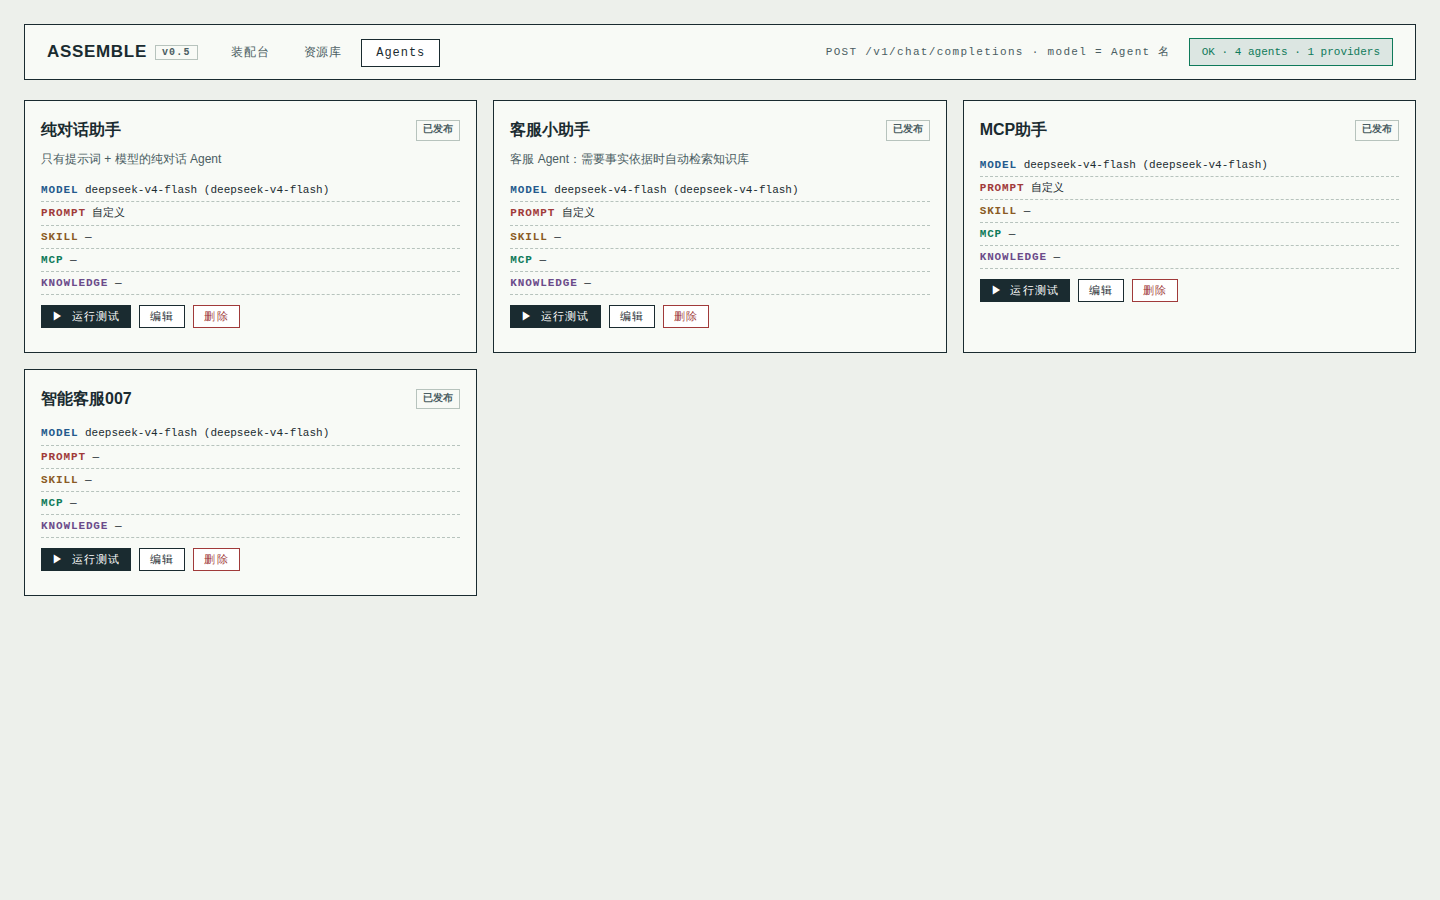
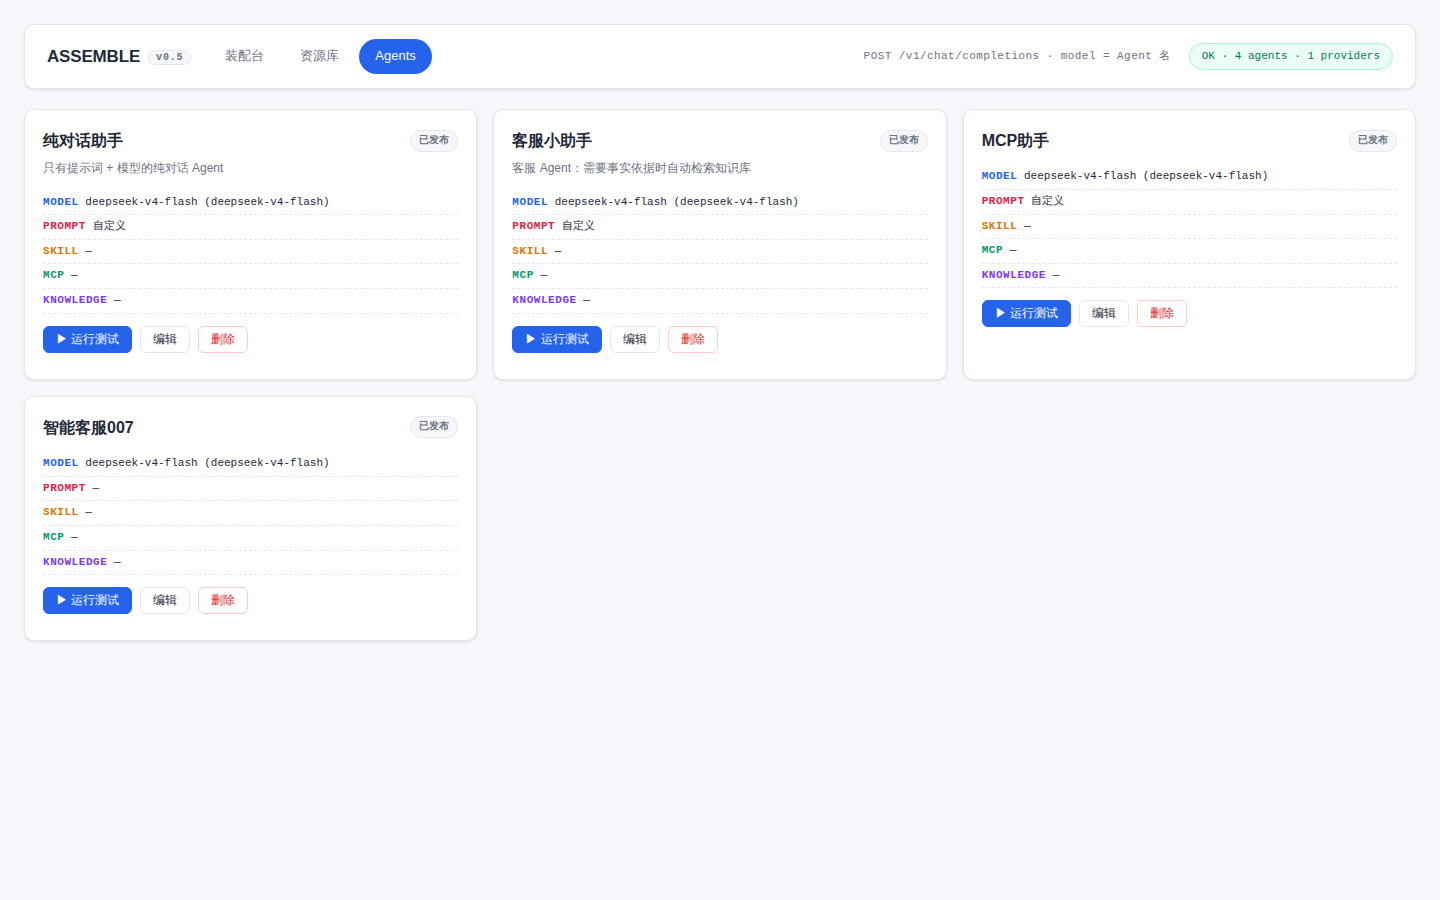
style: 界面换肤 —— 现代 SaaS 浅色（保留全部结构与逻辑）
- 重写 <style>：白卡片圆角(10px)/柔和阴影/浅灰背景(#F5F7FA)，
  蓝色主色(#2563EB)+胶囊导航/按钮/标签，表格圆角行hover，模态框圆角大阴影
- 五类组件色更新为现代色系：模型蓝/提示词玫红/MCP绿/技能橙/知识库紫
- JS 仅同步 W 对象色值（引用点自动跟随）；HTML 结构与全部类名未动
- 验证：headless Chrome 4/4（新风格生效 + 装配台/资源库/Agents 功能回归）；
  README 截图已重截

diff --git a/web/index.html b/web/index.html
@@ -6,127 +6,136 @@
 <title>assemble-agent · 装配台</title>
 <style>
   :root{
-    --bg:#EDF0EB; --panel:#F8FAF6; --ink:#1A2B30; --ink-soft:#4A5D62;
-    --line:#B7C3BD; --accent:#D4581D;
-    --w-model:#245A8D; --w-prompt:#A03A3A; --w-mcp:#0F7A5A; --w-skill:#8A5A24; --w-kb:#6B4B8A;
-    --mono:"JetBrains Mono","SF Mono","Cascadia Code",ui-monospace,Menlo,Consolas,monospace;
-    --sans:"PingFang SC","Noto Sans CJK SC","Source Han Sans SC","Microsoft YaHei",sans-serif;
+    --bg:#F5F7FA; --panel:#FFFFFF; --ink:#1F2937; --ink-soft:#6B7280;
+    --line:#E5E7EB; --accent:#2563EB; --accent-soft:#EFF6FF; --danger:#DC2626;
+    --w-model:#2563EB; --w-prompt:#E11D48; --w-mcp:#059669; --w-skill:#D97706; --w-kb:#7C3AED;
+    --radius:10px; --radius-sm:6px;
+    --shadow:0 1px 3px rgba(16,24,40,.08),0 1px 2px rgba(16,24,40,.04);
+    --shadow-lg:0 10px 30px rgba(16,24,40,.14);
+    --mono:"SF Mono","JetBrains Mono","Cascadia Code",ui-monospace,Menlo,Consolas,monospace;
+    --sans:Inter,-apple-system,"Segoe UI","PingFang SC","Noto Sans CJK SC","Microsoft YaHei",sans-serif;
   }
   *{margin:0;padding:0;box-sizing:border-box}
   body{
-    background:var(--bg);
-    background-image:linear-gradient(var(--line) .5px,transparent .5px),linear-gradient(90deg,var(--line) .5px,transparent .5px);
-    background-size:32px 32px;background-attachment:fixed;
-    color:var(--ink);font-family:var(--sans);font-size:14px;line-height:1.65;
+    background:var(--bg);color:var(--ink);font-family:var(--sans);font-size:14px;line-height:1.6;
   }
   .wrap{max-width:1460px;margin:0 auto;padding:24px 24px 90px}
   .hidden{display:none!important}
 
   /* ── 顶栏 ── */
-  .topbar{border:1.5px solid var(--ink);background:var(--panel);display:flex;align-items:center;gap:18px;padding:13px 22px;margin-bottom:20px;flex-wrap:wrap}
-  .topbar .logo{font-weight:800;font-size:17px;letter-spacing:.04em}
-  .topbar .logo .v{font-family:var(--mono);font-size:10px;color:var(--ink-soft);border:1px solid var(--line);padding:1px 6px;margin-left:8px;letter-spacing:.12em;vertical-align:2px}
-  .topnav a{font-family:var(--mono);font-size:12px;color:var(--ink-soft);text-decoration:none;padding:6px 14px;border:1.5px solid transparent;cursor:pointer;letter-spacing:.08em}
-  .topnav a:hover{border-color:var(--line)}
-  .topnav a.active{border:1.5px solid var(--ink);color:var(--ink);background:#fff}
-  .topbar .crumb{margin-left:auto;font-family:var(--mono);font-size:11px;color:var(--ink-soft);letter-spacing:.12em}
-  .status-pill{font-family:var(--mono);font-size:11px;padding:4px 12px;border:1.5px solid var(--ink);background:#E2E7E0;color:var(--ink-soft)}
-  .status-pill.ok{background:#DCE6E2;border-color:var(--w-mcp);color:var(--w-mcp)}
-  .status-pill.err{background:#F3DDD5;border-color:var(--w-prompt);color:var(--w-prompt)}
+  .topbar{background:var(--panel);border:1px solid var(--line);border-radius:var(--radius);box-shadow:var(--shadow);display:flex;align-items:center;gap:18px;padding:14px 22px;margin-bottom:20px;flex-wrap:wrap}
+  .topbar .logo{font-weight:800;font-size:17px;letter-spacing:-.01em}
+  .topbar .logo .v{font-family:var(--mono);font-size:10px;color:var(--ink-soft);background:var(--bg);border:1px solid var(--line);padding:1px 7px;margin-left:8px;border-radius:999px;letter-spacing:.08em;vertical-align:2px}
+  .topnav{display:flex;gap:4px}
+  .topnav a{font-size:13px;font-weight:500;color:var(--ink-soft);text-decoration:none;padding:7px 16px;border-radius:999px;cursor:pointer;transition:all .15s}
+  .topnav a:hover{background:var(--bg);color:var(--ink)}
+  .topnav a.active{background:var(--accent);color:#fff}
+  .topbar .crumb{margin-left:auto;font-family:var(--mono);font-size:11px;color:var(--ink-soft);letter-spacing:.04em}
+  .status-pill{font-family:var(--mono);font-size:11px;padding:4px 12px;border-radius:999px;background:var(--bg);color:var(--ink-soft);border:1px solid var(--line)}
+  .status-pill.ok{background:#ECFDF5;border-color:#A7F3D0;color:#047857}
+  .status-pill.err{background:#FEF2F2;border-color:#FECACA;color:#B91C1C}
 
-  h3{font-size:13px;letter-spacing:.14em;color:var(--ink-soft);margin-bottom:12px;font-family:var(--mono)}
-  h4{font-size:12px;margin-bottom:8px;letter-spacing:.06em}
-  .panel{border:1.5px solid var(--ink);background:var(--panel);padding:16px;margin-bottom:18px}
+  h3{font-size:13px;font-weight:600;letter-spacing:.02em;color:var(--ink-soft);margin-bottom:12px}
+  h4{font-size:12px;font-weight:600;margin-bottom:8px}
+  .panel{border:1px solid var(--line);background:var(--panel);padding:16px;margin-bottom:18px;border-radius:var(--radius)}
 
   /* ── 装配台三栏 ── */
   .assemble-grid{display:grid;grid-template-columns:320px 1fr 380px;gap:18px;align-items:start}
   @media(max-width:1200px){.assemble-grid{grid-template-columns:1fr}}
-  .picker{border:1px solid var(--line);padding:10px 12px;margin-bottom:10px;background:#fff}
-  .picker .title{font-family:var(--mono);font-size:11px;letter-spacing:.1em;margin-bottom:6px;display:flex;align-items:center;gap:6px}
-  .dot{display:inline-block;width:9px;height:9px;border-radius:2px}
-  .pick-item{display:flex;align-items:center;gap:8px;padding:5px 4px;border-bottom:1px dashed var(--line);cursor:pointer;font-size:13px}
+  .picker{border:1px solid var(--line);border-radius:var(--radius);padding:12px 14px;margin-bottom:10px;background:var(--panel)}
+  .picker .title{font-family:var(--mono);font-size:11px;letter-spacing:.06em;margin-bottom:8px;display:flex;align-items:center;gap:6px;color:var(--ink-soft)}
+  .dot{display:inline-block;width:10px;height:10px;border-radius:3px}
+  .pick-item{display:flex;align-items:center;gap:8px;padding:7px 8px;border-radius:var(--radius-sm);cursor:pointer;font-size:13px;transition:background .12s}
   .pick-item:hover{background:var(--bg)}
-  .pick-item input{accent-color:var(--ink)}
-  .pick-item .meta{margin-left:auto;font-family:var(--mono);font-size:10px;color:var(--ink-soft);max-width:130px;overflow:hidden;text-overflow:ellipsis;white-space:nowrap}
-  .pick-empty{font-size:12px;color:var(--ink-soft);padding:6px 4px;font-family:var(--mono)}
+  .pick-item input{accent-color:var(--accent)}
+  .pick-item .meta{margin-left:auto;font-family:var(--mono);font-size:10px;color:var(--ink-soft);max-width:140px;overflow:hidden;text-overflow:ellipsis;white-space:nowrap}
+  .pick-empty{font-size:12px;color:var(--ink-soft);padding:6px 4px}
   .pick-empty a{color:var(--accent);cursor:pointer;text-decoration:underline}
 
   .bus .field{margin-bottom:12px}
-  .bus label{display:block;font-family:var(--mono);font-size:11px;letter-spacing:.1em;color:var(--ink-soft);margin-bottom:5px}
+  .bus label{display:block;font-family:var(--mono);font-size:11px;letter-spacing:.05em;color:var(--ink-soft);margin-bottom:5px}
   .bus input[type=text],.bus textarea,.bus input[type=number],.bus select{
-    width:100%;border:1px solid var(--line);background:#fff;padding:8px 10px;font-size:13px;font-family:var(--sans);color:var(--ink)
+    width:100%;border:1px solid var(--line);border-radius:var(--radius-sm);background:#fff;padding:9px 12px;font-size:13px;font-family:var(--sans);color:var(--ink);transition:border-color .15s,box-shadow .15s
   }
   .bus textarea{min-height:200px;resize:vertical;font-family:var(--mono);font-size:12px;line-height:1.6}
-  .bus input:focus,.bus textarea:focus{outline:1.5px solid var(--accent)}
-  .params-grid{display:grid;grid-template-columns:1fr 1fr 1fr;gap:10px}
-  .slot{display:flex;align-items:center;gap:10px;border:1.5px dashed var(--line);padding:8px 10px;margin-bottom:8px;background:#fff}
-  .slot .tag{font-family:var(--mono);font-size:10px;letter-spacing:.12em;padding:2px 8px;border:1px solid var(--ink);flex-shrink:0}
+  .bus input:focus,.bus textarea:focus{outline:none;border-color:var(--accent);box-shadow:0 0 0 3px var(--accent-soft)}
+  .params-grid{display:grid;grid-template-columns:1fr 1fr 1fr 1fr;gap:10px}
+  .slot{display:flex;align-items:center;gap:10px;border:1px dashed var(--line);border-radius:var(--radius-sm);padding:9px 12px;margin-bottom:8px;background:#FAFBFC}
+  .slot .tag{font-family:var(--mono);font-size:10px;letter-spacing:.08em;padding:2px 9px;border-radius:999px;background:#fff;border:1px solid var(--line);color:var(--ink-soft);flex-shrink:0}
   .slot .chip{font-size:12px;display:flex;flex-wrap:wrap;gap:6px}
-  .chip span{background:var(--bg);border:1px solid var(--line);padding:1px 8px;font-family:var(--mono);font-size:11px}
-  .chip span b{cursor:pointer;color:var(--w-prompt);margin-left:4px}
-  .btn{font-family:var(--mono);font-size:12px;letter-spacing:.1em;padding:9px 22px;border:1.5px solid var(--ink);background:#fff;cursor:pointer;color:var(--ink)}
-  .btn:hover{background:var(--ink);color:#fff}
-  .btn.primary{background:var(--ink);color:#fff}
-  .btn.primary:hover{background:var(--accent);border-color:var(--accent)}
-  .btn.small{padding:3px 10px;font-size:11px}
-  .btn.danger{border-color:var(--w-prompt);color:var(--w-prompt)}
-  .btn.danger:hover{background:var(--w-prompt);color:#fff}
+  .chip span{background:var(--bg);border:1px solid var(--line);padding:2px 10px;border-radius:999px;font-family:var(--mono);font-size:11px}
+  .chip span b{cursor:pointer;margin-left:5px;opacity:.7}
+  .chip span b:hover{opacity:1}
+  .btn{font-size:13px;font-weight:500;padding:9px 22px;border-radius:var(--radius-sm);border:1px solid var(--line);background:#fff;cursor:pointer;color:var(--ink);transition:all .15s}
+  .btn:hover{border-color:var(--accent);color:var(--accent)}
+  .btn.primary{background:var(--accent);border-color:var(--accent);color:#fff}
+  .btn.primary:hover{background:#1D4ED8;border-color:#1D4ED8;color:#fff}
+  .btn.small{padding:4px 12px;font-size:12px;border-radius:var(--radius-sm)}
+  .btn.danger{color:var(--danger);border-color:#FECACA}
+  .btn.danger:hover{background:var(--danger);border-color:var(--danger);color:#fff}
   .btn:disabled{opacity:.45;cursor:not-allowed}
 
-  .api .tabs{display:flex;gap:0;margin-bottom:10px}
-  .api .tabs button{font-family:var(--mono);font-size:11px;padding:6px 14px;border:1.5px solid var(--line);background:#fff;cursor:pointer;color:var(--ink-soft)}
-  .api .tabs button.active{border-color:var(--ink);color:var(--ink);background:var(--bg)}
-  pre.code{background:#10181C;color:#D6E4E0;padding:14px;font-family:var(--mono);font-size:12px;overflow:auto;border-radius:2px;white-space:pre-wrap;word-break:break-all}
-  .chat-box{border:1px solid var(--line);background:#fff}
-  .chat-msgs{padding:10px;min-height:180px;max-height:340px;overflow:auto;font-size:13px}
-  .chat-msg{margin-bottom:8px}
-  .chat-msg .who{font-family:var(--mono);font-size:10px;color:var(--ink-soft);letter-spacing:.1em}
-  .chat-msg.user .body{background:var(--bg);padding:6px 10px;display:inline-block}
+  .api .tabs{display:flex;gap:6px;margin-bottom:12px}
+  .api .tabs button{font-size:12px;font-weight:500;padding:6px 14px;border-radius:999px;border:1px solid var(--line);background:#fff;cursor:pointer;color:var(--ink-soft);transition:all .15s}
+  .api .tabs button:hover{border-color:var(--accent);color:var(--accent)}
+  .api .tabs button.active{background:var(--accent);border-color:var(--accent);color:#fff}
+  pre.code{background:#0F172A;color:#CBD5E1;padding:16px;font-family:var(--mono);font-size:12px;border-radius:var(--radius);overflow:auto;white-space:pre-wrap;word-break:break-all;line-height:1.7}
+  .chat-box{border:1px solid var(--line);border-radius:var(--radius);background:#fff;overflow:hidden}
+  .chat-msgs{padding:12px;min-height:180px;max-height:340px;overflow:auto;font-size:13px}
+  .chat-msg{margin-bottom:10px}
+  .chat-msg .who{font-family:var(--mono);font-size:10px;color:var(--ink-soft);letter-spacing:.08em;margin-bottom:2px}
+  .chat-msg.user .body{background:var(--accent-soft);color:var(--ink);padding:7px 12px;display:inline-block;border-radius:var(--radius-sm)}
   .chat-msg.assistant .body{color:var(--ink)}
-  .chat-msg.tool .body{font-family:var(--mono);font-size:11px;color:var(--w-skill);border-left:2px solid var(--w-skill);padding-left:8px}
+  .chat-msg.tool .body{font-family:var(--mono);font-size:11px;color:var(--w-skill);border-left:3px solid var(--w-skill);padding-left:10px}
   .chat-input{display:flex;border-top:1px solid var(--line)}
-  .chat-input input{flex:1;border:0;padding:10px;font-size:13px;outline:none}
-  .chat-input .btn{border:0;border-left:1px solid var(--line)}
+  .chat-input input{flex:1;border:0;padding:11px 14px;font-size:13px;outline:none}
+  .chat-input .btn{border:0;border-left:1px solid var(--line);border-radius:0;color:var(--accent)}
 
   /* ── 资源库 ── */
-  .lib-tabs{display:flex;gap:0;margin-bottom:14px;flex-wrap:wrap}
-  .lib-tabs button{font-family:var(--mono);font-size:12px;padding:8px 18px;border:1.5px solid var(--line);background:var(--panel);cursor:pointer;color:var(--ink-soft);letter-spacing:.08em}
-  .lib-tabs button.active{border-color:var(--ink);color:var(--ink);background:#fff}
-  .lib-tabs button .cnt{font-size:10px;vertical-align:2px}
-  .lib-head{display:flex;justify-content:space-between;align-items:center;margin-bottom:10px}
-  table{width:100%;border-collapse:collapse;background:#fff;font-size:13px}
-  th,td{border:1px solid var(--line);padding:7px 10px;text-align:left;vertical-align:top}
-  th{font-family:var(--mono);font-size:11px;letter-spacing:.08em;color:var(--ink-soft);background:var(--bg)}
+  .lib-tabs{display:flex;gap:6px;margin-bottom:16px;flex-wrap:wrap}
+  .lib-tabs button{font-size:13px;font-weight:500;padding:8px 18px;border-radius:999px;border:1px solid var(--line);background:var(--panel);cursor:pointer;color:var(--ink-soft);transition:all .15s}
+  .lib-tabs button:hover{border-color:var(--accent);color:var(--accent)}
+  .lib-tabs button.active{background:var(--accent);border-color:var(--accent);color:#fff}
+  .lib-tabs button .cnt{font-size:10px;opacity:.75;vertical-align:2px}
+  .lib-head{display:flex;justify-content:space-between;align-items:center;margin-bottom:12px}
+  table{width:100%;border-collapse:separate;border-spacing:0;background:#fff;font-size:13px;border:1px solid var(--line);border-radius:var(--radius);overflow:hidden}
+  th,td{border-bottom:1px solid var(--line);padding:9px 12px;text-align:left;vertical-align:top}
+  th{font-family:var(--mono);font-size:11px;letter-spacing:.04em;color:var(--ink-soft);background:#F9FAFB;font-weight:600}
+  tbody tr:last-child td{border-bottom:0}
+  tbody tr:hover td{background:#F9FAFB}
   td .actions{white-space:nowrap}
   td .actions .btn{margin-right:6px}
-  .tag{font-family:var(--mono);font-size:10px;padding:1px 6px;border:1px solid var(--line);color:var(--ink-soft)}
+  .tag{font-family:var(--mono);font-size:10px;padding:2px 8px;border-radius:999px;background:var(--bg);border:1px solid var(--line);color:var(--ink-soft)}
   .doc-upload{display:inline-flex;gap:6px;align-items:center}
   .doc-upload input[type=file]{font-size:11px}
-  .toast{position:fixed;right:24px;top:24px;z-index:99;padding:10px 18px;border:1.5px solid var(--ink);background:var(--panel);font-size:13px;box-shadow:3px 3px 0 rgba(0,0,0,.15);max-width:360px}
-  .toast.err{border-color:var(--w-prompt);color:var(--w-prompt)}
-  .toast.ok{border-color:var(--w-mcp);color:var(--w-mcp)}
+  .toast{position:fixed;right:24px;top:24px;z-index:99;padding:11px 18px;border-radius:var(--radius);background:#fff;font-size:13px;box-shadow:var(--shadow-lg);border:1px solid var(--line);max-width:380px;animation:slideIn .2s ease}
+  .toast.err{color:var(--danger);border-color:#FECACA}
+  .toast.ok{color:#047857;border-color:#A7F3D0}
+  @keyframes slideIn{from{transform:translateY(-8px);opacity:0}to{transform:none;opacity:1}}
 
   /* ── 模态框 ── */
-  .modal-mask{position:fixed;inset:0;background:rgba(26,43,48,.45);display:flex;align-items:flex-start;justify-content:center;padding:60px 20px;z-index:50;overflow:auto}
-  .modal{background:var(--panel);border:1.5px solid var(--ink);width:760px;max-width:100%;padding:20px;box-shadow:6px 6px 0 rgba(0,0,0,.18);max-height:88vh;overflow-y:auto}
-  .modal h3{margin-bottom:14px}
-  .modal .field{margin-bottom:12px}
-  .modal label{display:block;font-family:var(--mono);font-size:11px;letter-spacing:.1em;color:var(--ink-soft);margin-bottom:4px}
-  .modal input[type=text],.modal input[type=number],.modal textarea,.modal select{width:100%;border:1px solid var(--line);background:#fff;padding:7px 9px;font-size:13px}
+  .modal-mask{position:fixed;inset:0;background:rgba(15,23,42,.45);display:flex;align-items:flex-start;justify-content:center;padding:48px 20px;z-index:50;overflow:auto}
+  .modal{background:var(--panel);border:1px solid var(--line);border-radius:14px;width:760px;max-width:100%;padding:22px 24px;box-shadow:var(--shadow-lg);max-height:88vh;overflow-y:auto}
+  .modal h3{margin-bottom:16px;font-size:15px;color:var(--ink)}
+  .modal .field{margin-bottom:14px}
+  .modal label{display:block;font-family:var(--mono);font-size:11px;letter-spacing:.04em;color:var(--ink-soft);margin-bottom:5px}
+  .modal input[type=text],.modal input[type=number],.modal textarea,.modal select{width:100%;border:1px solid var(--line);border-radius:var(--radius-sm);background:#fff;padding:8px 11px;font-size:13px;transition:border-color .15s,box-shadow .15s}
+  .modal input:focus,.modal textarea:focus,.modal select:focus{outline:none;border-color:var(--accent);box-shadow:0 0 0 3px var(--accent-soft)}
   .modal textarea{min-height:90px;resize:vertical;font-family:var(--mono);font-size:12px;line-height:1.6}
   .modal textarea.longtext{min-height:380px;width:100%;max-height:60vh}
-  .modal .row{display:grid;grid-template-columns:1fr 1fr;gap:10px}
-  .modal .actions{display:flex;justify-content:flex-end;gap:10px;margin-top:16px}
+  .modal .row{display:grid;grid-template-columns:1fr 1fr;gap:12px}
+  .modal .actions{display:flex;justify-content:flex-end;gap:10px;margin-top:18px}
 
   /* ── Agents 卡片 ── */
   .agents-grid{display:grid;grid-template-columns:repeat(auto-fill,minmax(360px,1fr));gap:16px}
-  .agent-card{border:1.5px solid var(--ink);background:var(--panel);padding:16px}
-  .agent-card .name{font-size:16px;font-weight:800;display:flex;align-items:center;gap:10px}
+  .agent-card{border:1px solid var(--line);background:var(--panel);padding:18px;border-radius:var(--radius);box-shadow:var(--shadow);transition:box-shadow .18s,transform .18s}
+  .agent-card:hover{box-shadow:var(--shadow-lg);transform:translateY(-2px)}
+  .agent-card .name{font-size:16px;font-weight:700;display:flex;align-items:center;gap:10px}
   .agent-card .name .tag{margin-left:auto}
-  .agent-card .desc{font-size:12px;color:var(--ink-soft);margin:6px 0 10px}
-  .agent-card .lines{font-family:var(--mono);font-size:11px;margin-bottom:10px}
-  .agent-card .lines div{padding:2px 0;border-bottom:1px dashed var(--line)}
-  .agent-card .lines b{letter-spacing:.08em}
+  .agent-card .desc{font-size:12px;color:var(--ink-soft);margin:6px 0 12px}
+  .agent-card .lines{font-family:var(--mono);font-size:11px;margin-bottom:12px}
+  .agent-card .lines div{padding:3px 0;border-bottom:1px dashed var(--line)}
+  .agent-card .lines b{letter-spacing:.05em}
   .agent-card .card-actions{display:flex;gap:8px}
   .run-log{font-family:var(--mono);font-size:11px;color:var(--ink-soft);margin-top:8px;max-height:120px;overflow:auto}
 </style>
@@ -264,7 +273,7 @@ window.addEventListener('error', e => window.__errs.push(e.message + ' @' + (e.l
    assemble-agent 管理页 —— 对接真实 /api/* 与 /v1/*
    ============================================================ */
 const $ = (sel) => document.querySelector(sel);
-const W = { model:'#245A8D', prompt:'#A03A3A', mcp:'#0F7A5A', skill:'#8A5A24', kb:'#6B4B8A' };
+const W = { model:'#2563EB', prompt:'#E11D48', mcp:'#059669', skill:'#D97706', kb:'#7C3AED' };
 const stateKeyOf = (k) => k === 'mcp' ? 'mcps' : k === 'kb' ? 'kbs' : k; // prompts → state.prompts
 
 /* ---------- 通用 ---------- */
